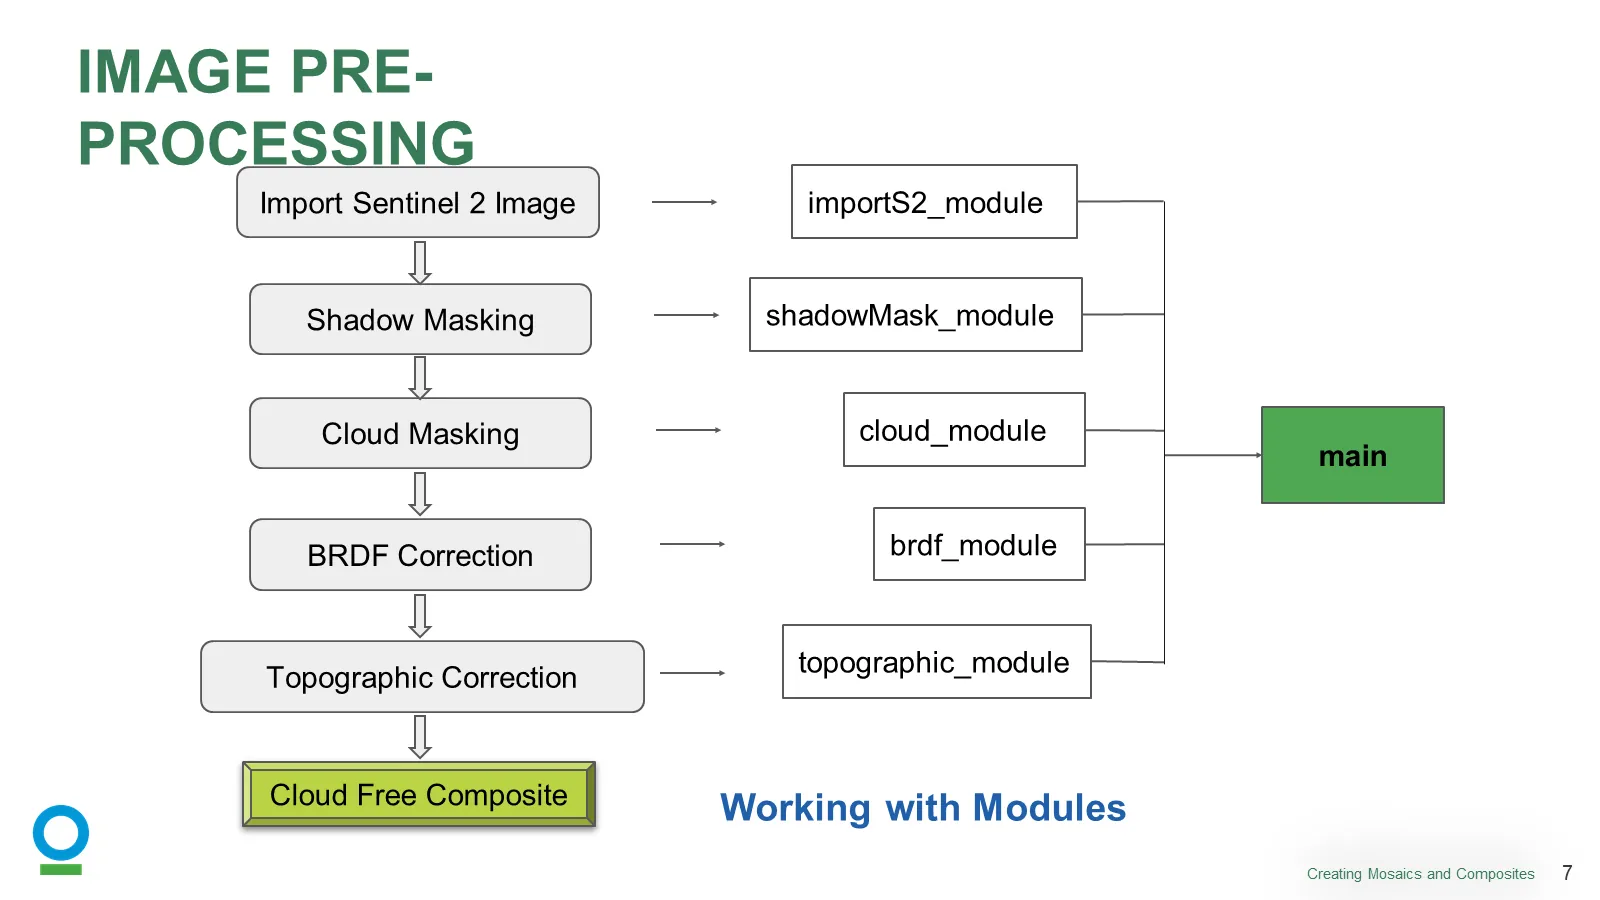
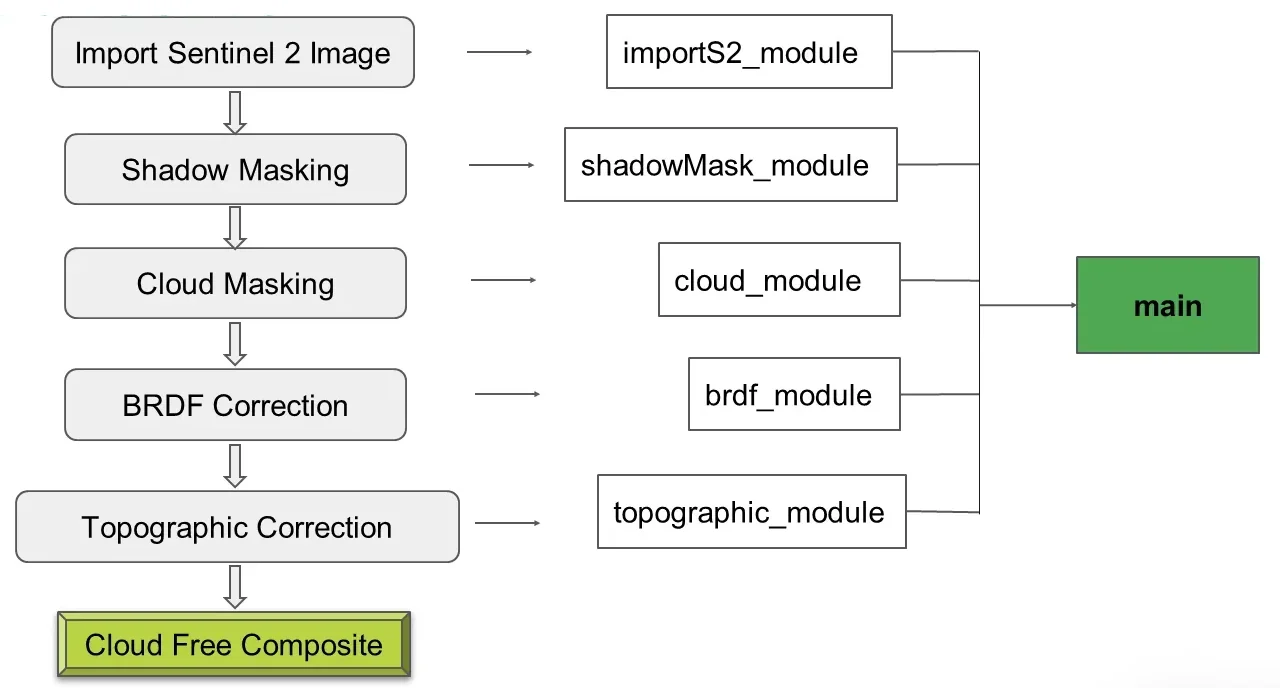
M4-10: Mosaics and composites lesson (review fixes; diagram cropped)

diff --git a/scripts/gee/day-2/mosaics-and-composites.js b/scripts/gee/day-2/mosaics-and-composites.js
@@ -16,7 +16,8 @@ Map.centerObject(thimphu, 10);
 // https://developers.google.com/earth-engine/datasets/catalog/COPERNICUS_S2_SR_HARMONIZED
 var s2 = ee.ImageCollection('COPERNICUS/S2_SR_HARMONIZED')
     .filterBounds(thimphu)
-    .filterDate('2025-01-01', '2025-05-01');
+    .filterDate('2025-01-01', '2025-05-01')
+    .sort('system:time_start');  // oldest first, so the latest image ends up on top of the mosaic
 print('Images:', s2.size());
 var vis = {bands: ['B4', 'B3', 'B2'], min: 0, max: 3000};
 

diff --git a/CHANGELOG.md b/CHANGELOG.md
@@ -48,3 +48,4 @@ Each correction made to the original Bhutan ART-TREES HFLD Readiness Training ma
 | D2-Exercise-Calculating spectral indices… | `var aoi = geometry;` (drawn); every section repeated as "full code"; a final section repeating Day 1's collection code | `aoi` = point at Thimphu; one curated script; the repeated Day 1 section left out | `scripts/gee/day-2/spectral-indices.js` |
 | D2-Exercise-Calculating spectral indices… | No practice task; 1.4 layers shown on load; `print('NDWI Collection:', …)` and a repeated RGB median layer in 1.4; layer named `'RGB'`; EVI and SAVI defined but not applied | Fill-in EVI task (Paro) with `scripts/gee/day-2/spectral-indices-solution.js`; 1.4 layers start hidden; the repeated print and RGB layer left out; layer named `'RGB median 2024'`; EVI and SAVI mapped over the collection and shown as medians | Spectral indices and functions |
 | D2-Creating Mosaics and Composites… | Sentinel-2 "Cycle: 10 days"; shadow-masking slide repeats the import module's bullets; no code for mosaic vs composite | 10 days per satellite, 5 with two; shadow module described by what it does; new comparison script `scripts/gee/day-2/mosaics-and-composites.js` | Mosaics and composites |
+| D2-Creating Mosaics and Composites… | Illumination correction credited to "Patrik Burns and Matt Macander"; slide 16 book cover and QR codes | Patrick Burns; text links to the EEFA book, Open Geo Blog and Earth Engine guides | Mosaics and composites |
